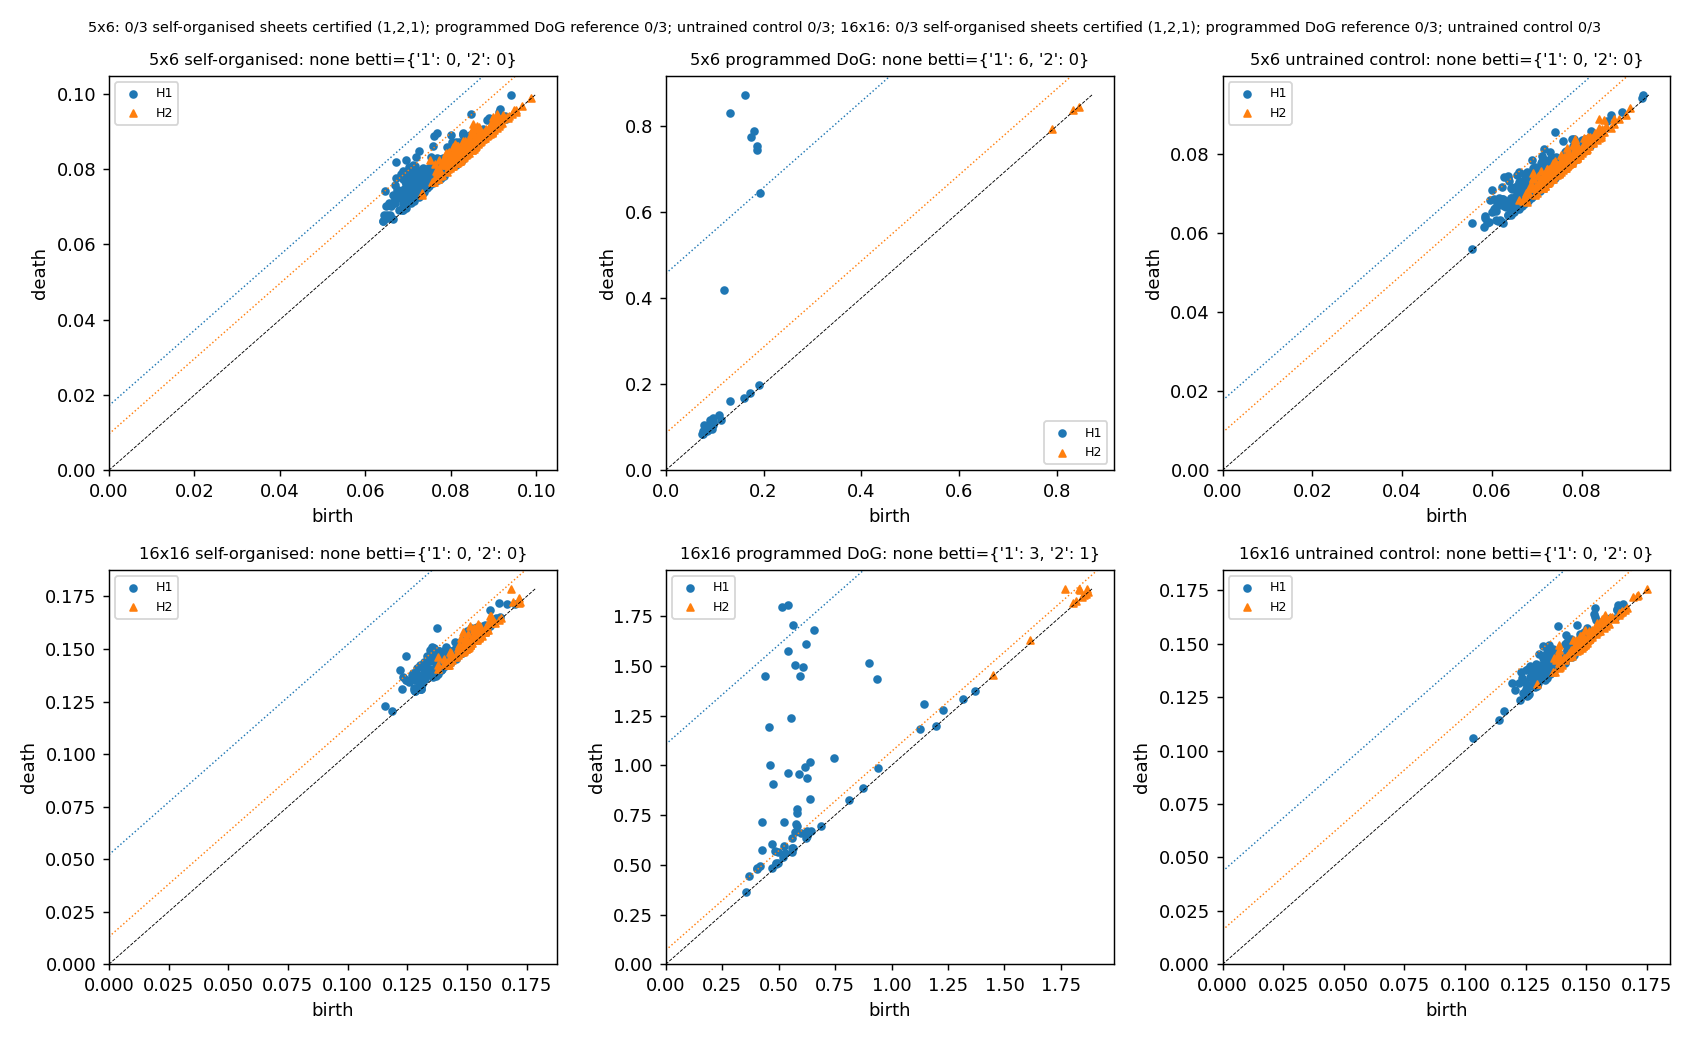
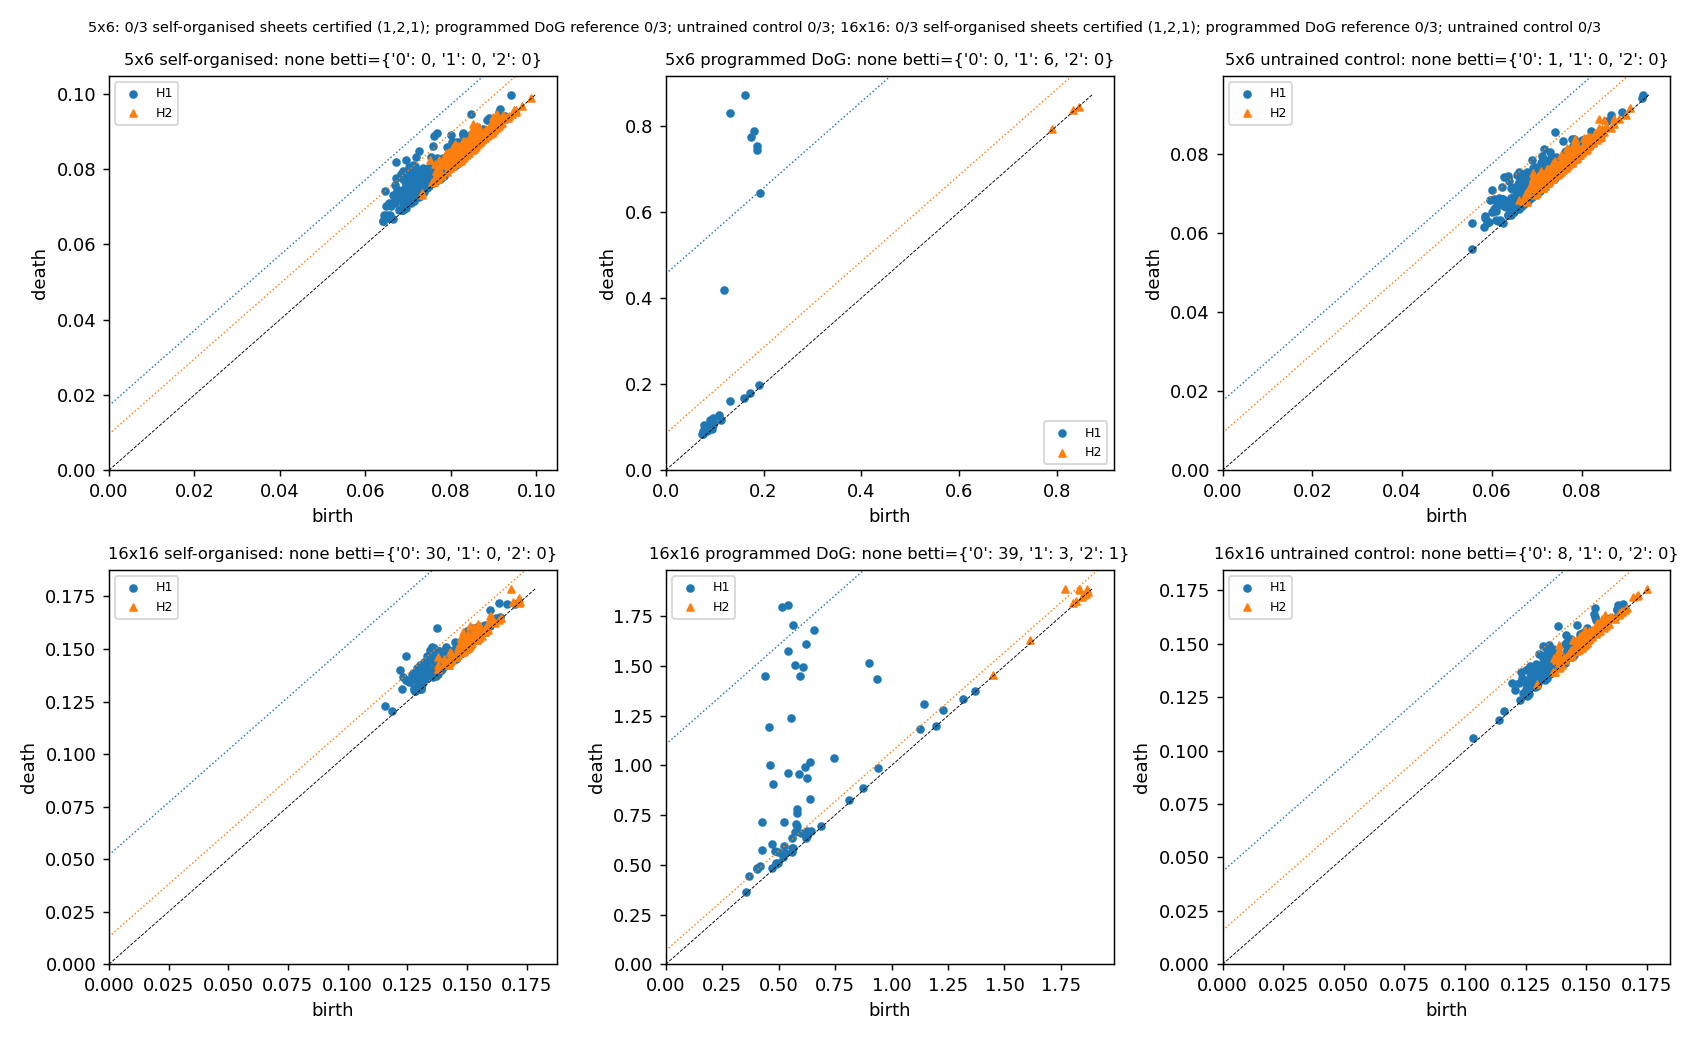
Align with the BPU technical document and patent disclosure: null threshold = 99th pct of longest null feature, beta0 fragmentation check, writes-per-device accounting, gate-scaled plasticity (kill switch), consolidation pair, E2 criteria; E4/E5/E2 rerun

diff --git a/bpusim/topology.py b/bpusim/topology.py
@@ -6,14 +6,17 @@ Pipeline
 2. Vietoris-Rips persistent homology (ripser; gudhi fallback) up to ``maxdim``.
 3. Null model: circularly shift each neuron's trace by an independent random
    offset (destroys the joint structure, keeps every marginal), recompute the
-   diagrams ``n_null`` times, pool the lifetimes per dimension and take the
-   99th percentile as the significance threshold.
-   A bar is significant if it exceeds that percentile *and* the largest
-   lifetime seen in any single null diagram (the pooled percentile alone is
-   dominated by the many short null bars and is too permissive).
-4. Certify a *ring* if exactly one H1 bar is significant (and no H2 bar is
-   when H2 was computed); a *torus* if H1 has exactly two and H2 exactly one
-   significant bar.
+   diagrams ``n_null`` times, and set the threshold per dimension at the
+   99th percentile of the *longest* null feature (the technical document's
+   definition; with few null draws this is the largest null lifetime).  The
+   99th percentile of the pooled null lifetimes is also recorded.
+4. Certify a *ring* if exactly one H1 bar is significant, no H2 bar is (when
+   H2 was computed) and no finite H0 bar is (an extra persistent H0 bar
+   means the cloud is fragmented into clusters, the pinning failure
+   signature); a *torus* if H1 has exactly two and H2 exactly one significant
+   bar and again no extra H0 bar.  Betti-0 is reported as the number of
+   significant *finite* H0 bars, i.e. components beyond the one that never
+   dies.
 """
 from __future__ import annotations
 
@@ -73,8 +76,7 @@ def diagrams(X: np.ndarray, maxdim: int = 1) -> list[np.ndarray]:
     out = []
     for d, D in enumerate(dg):
         D = np.asarray(D, float).reshape(-1, 2)
-        if d > 0:
-            D = D[np.isfinite(D[:, 1])]
+        D = D[np.isfinite(D[:, 1])]          # drop the one infinite H0 bar as well
         out.append(D)
     return out
 
@@ -110,35 +112,37 @@ def certify(X: np.ndarray, maxdim: int = 1, n_pca: int = 20, n_points: int = 300
     Xr = pca_reduce(X, n_pca)
     Xs = subsample(Xr, n_points, rng)
     dg = diagrams(Xs, maxdim)
-    null_L = {d: [] for d in range(1, maxdim + 1)}
-    null_max = {d: [] for d in range(1, maxdim + 1)}
+    dims = range(0, maxdim + 1)
+    null_L = {d: [] for d in dims}
+    null_max = {d: [] for d in dims}
     for _ in range(n_null):
         Xn = circular_shift_null(X, rng)
         Xn = subsample(pca_reduce(Xn, n_pca), n_points, rng)
         dgn = diagrams(Xn, maxdim)
-        for d in range(1, maxdim + 1):
+        for d in dims:
             L = lifetimes(dgn[d])
             null_L[d].extend(L.tolist())
             null_max[d].append(float(L.max()) if L.size else 0.0)
-    thr, betti, sig = {}, {}, {}
-    for d in range(1, maxdim + 1):
+    thr, thr_pool, betti, sig = {}, {}, {}, {}
+    for d in dims:
         pool = np.asarray(null_L[d]) if len(null_L[d]) >= min_null_bars else np.zeros(1)
-        thr_pool = float(np.percentile(pool, q)) if pool.size else 0.0
-        thr_max = float(np.max(null_max[d])) if null_max[d] else 0.0
-        thr[d] = max(thr_pool, thr_max)
+        thr_pool[d] = float(np.percentile(pool, q)) if pool.size else 0.0
+        thr[d] = float(np.percentile(null_max[d], q)) if null_max[d] else 0.0
         L = lifetimes(dg[d])
         sig[d] = np.sort(L[L > thr[d]])[::-1]
         betti[d] = int(sig[d].size)
-    is_ring = betti.get(1, 0) == 1 and (maxdim < 2 or betti.get(2, 0) == 0)
-    is_torus = maxdim >= 2 and betti.get(1, 0) == 2 and betti.get(2, 0) == 1
+    no_fragments = betti.get(0, 0) == 0
+    is_ring = no_fragments and betti.get(1, 0) == 1 and (maxdim < 2 or betti.get(2, 0) == 0)
+    is_torus = no_fragments and maxdim >= 2 and betti.get(1, 0) == 2 and betti.get(2, 0) == 1
     verdict = "torus" if is_torus else ("ring" if is_ring else "none")
     return {
         "verdict": verdict, "is_ring": bool(is_ring), "is_torus": bool(is_torus),
-        "betti": {int(k): v for k, v in betti.items()},
+        "betti": {int(k): v for k, v in betti.items()},            # betti[0] = extra (finite) components
         "threshold": {int(k): v for k, v in thr.items()},
+        "threshold_pooled": {int(k): v for k, v in thr_pool.items()},
         "null_max_lifetime": {int(k): float(np.max(v)) if v else 0.0 for k, v in null_max.items()},
         "significant_lifetimes": {int(k): v.tolist() for k, v in sig.items()},
-        "top_lifetimes": {int(d): np.sort(lifetimes(dg[d]))[::-1][:5].tolist() for d in range(1, maxdim + 1)},
+        "top_lifetimes": {int(d): np.sort(lifetimes(dg[d]))[::-1][:5].tolist() for d in dims},
         "diagrams": [D.tolist() for D in dg],
         "n_points": int(Xs.shape[0]), "n_null": int(n_null), "q": q,
     }

diff --git a/experiments/e4_ring_selforg.py b/experiments/e4_ring_selforg.py
@@ -78,9 +78,11 @@ def run_seed(seed: int, n_dev: int, n_checkpoints: int, n_null: int, cue_kind: s
     ang, prof0 = profile(W0, theta)
     _, prof1 = profile(sheet.tile.W, theta)
     return {
-        "seed": seed, "certified_ring": cert["is_ring"], "betti1": cert["betti"][1],
+        "seed": seed, "certified_ring": cert["is_ring"], "betti1": cert["betti"][1], "betti0_extra": cert["betti"][0],
+        "writes_per_device_per_s": sheet.tile.writes_per_device(seconds=n_dev * 1e-3),
+        "write_budget_per_device_per_s": 6e-3,
         "top_H1_lifetimes": cert["top_lifetimes"][1], "H1_threshold": cert["threshold"][1],
-        "control_certified_ring": cert_ctrl["is_ring"], "control_betti1": cert_ctrl["betti"][1],
+        "control_certified_ring": cert_ctrl["is_ring"], "control_betti1": cert_ctrl["betti"][1], "control_betti0_extra": cert_ctrl["betti"][0],
         "control_top_H1": cert_ctrl["top_lifetimes"][1], "control_H1_threshold": cert_ctrl["threshold"][1],
         "bump_persists_frac": float(persisted.mean()), "control_bump_persists_frac": float(persisted_ctrl.mean()),
         "ring_occupancy_bins_of_8": int(np.count_nonzero(occupancy)), "occupancy": occupancy.tolist(),
@@ -107,7 +109,7 @@ def main():
         with Timer(f"seed {seed}"):
             r = run_seed(seed, args.steps, args.checkpoints, args.null, args.cue)
         runs.append(r)
-        print(f"  seed {seed}: certified={r['certified_ring']} betti1={r['betti1']} top H1={np.round(r['top_H1_lifetimes'][:3], 3)} thr={r['H1_threshold']:.3f}"
+        print(f"  seed {seed}: certified={r['certified_ring']} betti1={r['betti1']} extra betti0={r['betti0_extra']} writes/dev/s={r['writes_per_device_per_s']:.3g} top H1={np.round(r['top_H1_lifetimes'][:3], 3)} thr={r['H1_threshold']:.3f}"
               f" | control certified={r['control_certified_ring']} betti1={r['control_betti1']} | persists {r['bump_persists_frac']:.2f} (ctrl {r['control_bump_persists_frac']:.2f})"
               f" | occupancy {r['ring_occupancy_bins_of_8']}/8 bins, drift {r['median_drift_from_cue_rad']:.2f} rad"
               f" | synapses {r['n_active_initial']}->{r['n_active_final']}")

diff --git a/experiments/e2_grow_vs_rigl.py b/experiments/e2_grow_vs_rigl.py
@@ -196,10 +196,18 @@ def main():
     out = {"seeds": seeds, "epochs": epochs, "density": args.density, "update_every": args.update_every,
            "drop_frac": args.drop_frac, "noise_sigma": args.noise, "smoke": args.smoke, "runs": runs, "summary": summary}
     gap = summary["local"]["mean"] - summary["rigl"]["mean"]
-    out["verdict"] = {"local_minus_rigl": gap, "local_minus_random": summary["local"]["mean"] - summary["random"]["mean"],
-                      "statement": "local grow rule %s RigL (%.4f vs %.4f test accuracy, random %.4f) at %.0f%% density" % (
-                          "matches" if abs(gap) <= 2 * max(summary["local"]["sem"], summary["rigl"]["sem"], 1e-4) else ("beats" if gap > 0 else "trails"),
-                          summary["local"]["mean"], summary["rigl"]["mean"], summary["random"]["mean"], 100 * args.density)}
+    gap_rand = summary["local"]["mean"] - summary["random"]["mean"]
+    # criteria from the technical document: success = within a few percent of RigL at equal budget;
+    # refuted = clearly worse than random regrowth
+    within_few_pct = abs(gap) <= 0.03
+    worse_than_random = gap_rand < -2 * max(summary["local"]["sem"], summary["random"]["sem"], 1e-4) and gap_rand < -0.005
+    out["verdict"] = {"local_minus_rigl": gap, "local_minus_random": gap_rand,
+                      "within_few_percent_of_rigl": within_few_pct, "clearly_worse_than_random": worse_than_random,
+                      "statement": "local %.4f, RigL %.4f, random %.4f test accuracy at %.0f%% density: %s" % (
+                          summary["local"]["mean"], summary["rigl"]["mean"], summary["random"]["mean"], 100 * args.density,
+                          ("REFUTED (clearly worse than random regrowth)" if worse_than_random else
+                           ("success criterion met: within a few percent of RigL (gap %+.4f), not worse than random (%+.4f)" % (gap, gap_rand)
+                            if within_few_pct else "trails RigL by %.4f, not worse than random" % -gap)))}
     print("E2 verdict:", out["verdict"]["statement"])
     save_results("e2", out, args.out)
     if not args.no_fig:

diff --git a/bpusim/tile.py b/bpusim/tile.py
@@ -42,6 +42,9 @@ class Tile:
         self.A = np.ones(shape, bool) if mask is None else np.asarray(mask, bool).copy()
         self.G_scale = self.p.G_range
         self.n_writes = 0
+        # eta(V_G): the memtransistor gate scales plasticity without touching the stored state;
+        # 0 is the hardware kill switch (claim 6), 1 is nominal
+        self.plasticity_gain = 1.0
 
     # ----------------------------------------------------------------- views
     @property
@@ -89,7 +92,7 @@ class Tile:
         so a caller accumulating sub-pulse changes can keep the residual.
         ``self.n_writes`` counts synapses that received at least one pulse.
         """
-        dW = np.asarray(dW, float) * self.A
+        dW = np.asarray(dW, float) * self.A * self.plasticity_gain
         W_before = self.W
         if not np.any(dW):
             return np.zeros(self.shape)
@@ -117,6 +120,17 @@ class Tile:
         self.gm.pulse(n_m)
         self.n_writes += int(((n_p != 0) | (n_m != 0)).sum())
         return self.W - W_before
+
+    @property
+    def n_pulses(self) -> int:
+        return self.gp.n_pulses + self.gm.n_pulses
+
+    def writes_per_device(self, seconds: float | None = None) -> float:
+        """Average write events per device (per second if ``seconds`` is given).  The
+        technical document's endurance budget is ~6e-3 writes per device per second
+        (1e6 cycles over 5 years)."""
+        w = self.n_writes / (2.0 * self.A.size)
+        return w / seconds if seconds else w
 
     def program(self, W_target: np.ndarray, tol: float = 0.02, max_iter: int = 400) -> int:
         """Write-verify the whole tile to W_target in [-1, 1] (positive part on G+, negative on G-)."""

diff --git a/tests/test_plasticity.py b/tests/test_plasticity.py
@@ -1,7 +1,7 @@
 import numpy as np
 
 from bpusim.plasticity import (STDP, EligibilityTrace, stdp_window, three_factor, homeostatic_scaling,
-                               oja_update, normalize_columns, SurpriseGate)
+                               oja_update, normalize_columns, SurpriseGate, ConsolidationPair)
 
 
 def test_stdp_online_matches_window():
@@ -55,3 +55,17 @@ def test_oja_converges_to_unit_norm():
     assert abs(W[0, 0]) > 0.9  # aligned with the principal component
     Wn = normalize_columns(rng.standard_normal((5, 3)), 2.0)
     np.testing.assert_allclose(np.linalg.norm(Wn, axis=0), 2.0)
+
+
+def test_consolidation_pair_forgets_fast_and_keeps_replayed():
+    c = ConsolidationPair((1,), tau_f=1.0, tau_c=1.0, dt=1e-3)
+    c.step(1.0 / 1e-3)                 # one unit of learning into the fast device
+    assert abs(c.g_f[0] - 1.0) < 1e-6 and c.g_s[0] == 0.0
+    for _ in range(3000):              # no replay: the fast trace decays, nothing consolidates
+        c.step(0.0, replay=False)
+    assert c.g_f[0] < 0.06 and c.g_s[0] == 0.0
+    c2 = ConsolidationPair((1,), tau_f=1e9, tau_c=1.0, dt=1e-3)
+    c2.step(1.0 / 1e-3)
+    for _ in range(3000):              # replay: the slow device copies the fast one
+        c2.step(0.0, replay=True)
+    assert c2.g_s[0] > 0.9

diff --git a/bpusim/plasticity.py b/bpusim/plasticity.py
@@ -125,3 +125,30 @@ def normalize_columns(W, target_norm=1.0, eps=1e-12):
     W = np.asarray(W, float)
     n = np.linalg.norm(W, axis=0, keepdims=True)
     return W * (target_norm / np.maximum(n, eps))
+
+
+class ConsolidationPair:
+    """Fast volatile device g_f + slow nonvolatile device g_s per synapse (L3 consolidation).
+
+        G_eff = g_f + g_s,   tau_f dg_f/dt = -g_f + tau_f * delta_learn,
+        tau_c dg_s/dt = (g_f - g_s) * 1[replay]
+
+    Learning writes to the volatile device, which forgets with tau_f; during a
+    replay phase the slow device copies the fast one with tau_c (Benna and
+    Fusi, 2016 two-variable cascade).
+    """
+
+    def __init__(self, shape, tau_f=10.0, tau_c=100.0, dt=1e-3):
+        self.g_f = np.zeros(shape)
+        self.g_s = np.zeros(shape)
+        self.tau_f, self.tau_c, self.dt = tau_f, tau_c, dt
+
+    @property
+    def G_eff(self):
+        return self.g_f + self.g_s
+
+    def step(self, delta_learn=0.0, replay: bool = False):
+        self.g_f += self.dt * (-self.g_f / self.tau_f + np.asarray(delta_learn))
+        if replay:
+            self.g_s += self.dt * (self.g_f - self.g_s) / self.tau_c
+        return self.G_eff

diff --git a/tests/test_topology.py b/tests/test_topology.py
@@ -14,7 +14,17 @@ def _ring_cloud(rng, T=1500, N=32):
 def test_certify_ring():
     rng = np.random.default_rng(0)
     c = certify(_ring_cloud(rng), maxdim=1, n_points=250, n_null=10, rng=rng)
-    assert c["verdict"] == "ring" and c["betti"][1] == 1
+    assert c["verdict"] == "ring" and c["betti"][1] == 1 and c["betti"][0] == 0
+
+
+def test_fragmented_cloud_is_not_a_ring():
+    """Four tight clusters on a circle: H0 reports extra components, so no ring certificate."""
+    rng = np.random.default_rng(5)
+    theta = 2 * np.pi * np.arange(32) / 32
+    a = np.repeat(2 * np.pi * np.arange(4) / 4, 300) + 0.02 * rng.standard_normal(1200)
+    X = np.maximum(np.cos(a[:, None] - theta[None, :]) - 0.3, 0) + 0.01 * rng.standard_normal((1200, 32))
+    c = certify(X, maxdim=1, n_points=200, n_null=8, rng=rng)
+    assert c["betti"][0] >= 1 and not c["is_ring"]
 
 
 def test_certify_torus():

diff --git a/tests/test_tile.py b/tests/test_tile.py
@@ -57,3 +57,15 @@ def test_dead_synapse_reads_zero_once_pruned(rng):
     assert np.all(t.W[t.gp.dead] <= 1e-9)
     GrowthRule(t).prune()
     assert np.all(t.W[t.dead] == 0.0) and not np.any(t.A & t.dead)
+
+
+def test_plasticity_gain_kill_switch_and_write_accounting(rng):
+    t = Tile(6, 6, rng, DeviceParams(sigma_d2d=0, sigma_c2c=0, sigma_r=0))
+    t.plasticity_gain = 0.0                      # V_G = 0: plasticity frozen in hardware
+    t.update(np.full((6, 6), 0.3))
+    assert np.all(t.W == 0.0) and t.n_writes == 0
+    t.plasticity_gain = 1.0
+    t.update(np.full((6, 6), 0.3))
+    assert t.W.min() > 0.25 and t.n_writes == 36
+    assert abs(t.writes_per_device() - 0.5) < 1e-12   # 36 writes over 72 devices
+    assert abs(t.writes_per_device(seconds=10.0) - 0.05) < 1e-12

diff --git a/README.md b/README.md
@@ -55,10 +55,10 @@ confirmed.
 | Exp | What was measured | Outcome (3 seeds unless stated) | Verdict |
 |---|---|---|---|
 | E1 | GPT-2 124M perplexity through noisy tiles, with noise-aware fine-tuning | **not run here** (GPU host); `--smoke` pipeline check passes on CPU | pending |
-| E2 | MNIST MLP at 10 % density: local grow rule vs RigL vs random regrowth, 5 epochs | test acc local 0.914 +- 0.003, RigL 0.923 +- 0.001, random 0.914 +- 0.002 | local rule = random, trails RigL by 0.9 pt |
+| E2 | MNIST MLP at 10 % density: local grow rule vs RigL vs random regrowth, 5 epochs | test acc local 0.914 +- 0.003, RigL 0.923 +- 0.001, random 0.914 +- 0.002 | **success criterion met** (within a few percent of RigL, not worse than random); no advantage over random regrowth |
 | E3 | 32-ring on a 32x32 tile, mismatch 0.05, path-integration RMSE vs dynamic noise, **10 seeds** | RMSE 0.38 (sigma 0) -> 0.33 (sigma 0.05, 7/10 seeds better) -> 0.41 (sigma 0.2); no-mismatch control 0.05 -> 0.34 monotonic | **not U-shaped** at p = 0.34; shallow dip inside the error bars |
-| E4 | ring self-organised from a sparse random tile (STDP + growth + normalisation), beta1 = 1 vs circular-shift null | 2/3 seeds certified (H1 bars 0.26, 0.20 vs null 0.19, 0.16; third seed 0.10 vs 0.13); 0/3 untrained controls; released bumps cover 6/8 ring bins | **partial**: ring forms in most seeds, kernel still translation-variant |
-| E5 | grid self-organisation on 5x6 and 16x16 sheets, torus (1,2,1) vs null | 0/3 + 0/3 self-organised; **programmed DoG reference also 0/3 + 0/3** (5x6: 1-6 H1 bars, 0-1 H2; 16x16: 0-3 H1, 0-1 H2); 0/3 controls | **not certified**; the certifier does not pass even the programmed module at these sizes |
+| E4 | ring self-organised from a sparse random tile (STDP + growth + normalisation), beta1 = 1 vs circular-shift null | 2/3 seeds certified (H1 bars 0.26, 0.20 vs null 0.18, 0.16; third seed 0.10 vs 0.12), no extra β0 components in any seed; 0/3 untrained controls; released bumps cover 6/8 ring bins; 0.11 writes per device per second during development vs the 6e-3 endurance budget | **partial**: ring forms in most seeds, kernel still translation-variant; development is 18x over the write budget |
+| E5 | grid self-organisation on 5x6 and 16x16 sheets, torus (1,2,1) vs null | 0/3 + 0/3 self-organised; **programmed DoG reference also 0/3 + 0/3** (5x6: 1-6 H1 bars, 0-1 H2; 16x16: 0-3 H1, 0-1 H2 and 12-39 extra β0 components, i.e. the lattice hops between discrete states instead of sliding); 0/3 controls | **not certified**; the certifier does not pass even the programmed module at these sizes |
 | E6 | 32 +-1 pairs on 32x32 tiles, recall from 50 %-erased cues, sigma in {0 .. 0.2} | pseudo-inverse scaffold: >= 90 % exact recall only up to K = 4-8; delta-rule scaffold the same; **attention: 32/32 at every sigma** (0.98-1.00) | device noise is not the limit, the erasure is; attention wins by a wide margin |
 | E7 | 8 generic modules, NAV + RECALL, grown module graph vs fixed layered graph at equal synapses | Q(grown) = 0.12 +- 0.01, rises from 0 as 12 routes grow; all modules carry > 0.1 bit about the task; nav accuracy grown 0.15 vs fixed 0.39, recall bits 0.70 vs 0.76; compositional transfer gap +0.01 (p = 1) | **null**: the graph grows and becomes weakly modular but learns the tasks worse than the fixed graph and composes no better |
 
@@ -94,8 +94,18 @@ confirmed.
   they should (toward the output modules) and Q rises to ~0.12, but the
   local learner is too weak: the grown graph solves the tasks worse than a
   fixed layered graph with the same synapse budget, and neither composes.
-* **E2**: the local grow rule is indistinguishable from random regrowth and
-  0.9 points below RigL after 5 epochs.  **E1** is ready for a GPU host.
+* **E2** meets the technical document's success criterion (within a few
+  percent of RigL, not worse than random) but shows no advantage over
+  random regrowth.  **E1** is ready for a GPU host.
+* **Write budget.** Self-organisation in E4 costs 0.11 writes per device per
+  second, 18x the endurance budget of 6e-3 from the technical document; a
+  developmental phase of this intensity has to be short or sparser.
+
+The certifier follows the technical document: threshold at the 99th
+percentile of the longest null feature, and a ring/torus certificate also
+requires no extra persistent β0 component (fragmentation by pinning).  The
+alignment of the code with the *Technical Document* and the *Patent-Style
+Disclosure* is itemised at the end of `DECISIONS.md`.
 
 Timings on this laptop (20-core CPU): E3 23 s, E4 48 s, E5 ~10 min
 (16x16 tiles), E6 109 s, E7 100 s; `scripts/run_all.sh` ~15 min with 3

diff --git a/DECISIONS.md b/DECISIONS.md
@@ -262,3 +262,44 @@ honest partial result, not a certified continuous attractor in every seed.
   `--full` uses 10 seeds.  Timings are in the README (~15 min for 3 seeds;
   E5's 16x16 sheets dominate, so they use 12k development steps and 100
   kick positions instead of 20k and 160).
+
+## Alignment with the two BPU documents (2026-10-16)
+
+Checked against *BPU Technical Document — Architecture, Mathematics, and
+Contribution* and *BPU Patent-Style Disclosure* (both in `~/Downloads`).
+The equations match the brief and the code.  Changes made to match the
+documents where they are more specific than the brief:
+
+* **Certification threshold** is now the technical document's definition:
+  the 99th percentile of the *longest* null feature per dimension (the
+  pooled 99th percentile is still recorded as `threshold_pooled`).
+* **Betti-0 failure signature.**  The document's ring signature is
+  (1, 1, 0) and its failure mode is "extra beta0 bars (fragmented by
+  pinning)".  `certify` now counts significant finite H0 bars as
+  `betti[0]` and a ring or torus certificate requires zero of them.  This
+  is stricter than the brief's "exactly one H1 bar" and is applied to E4/E5.
+* **Writes per device against the cycle budget** (Section 11 of the
+  technical document, budget ~6e-3 writes per device per second):
+  `Tile.writes_per_device(seconds)`; E4 reports it next to the budget.
+* **Gate-scaled plasticity / kill switch** (claims 5-6): `Tile.plasticity_gain`
+  multiplies every write; 0 freezes plasticity.
+* **Fast/slow consolidation pair** (Section 5.1, claim 16):
+  `plasticity.ConsolidationPair` implements `G_eff = g_f + g_s` with
+  volatile decay and replay-gated transfer.  Not used by any experiment.
+* **E2 verdict wording** follows the document's criteria: success = within
+  a few percent of RigL at equal budget; refuted = clearly worse than random
+  regrowth.
+* **Attention beta.**  The document uses `beta = 1/sqrt(d)` for the
+  transformer identity; E6 uses `beta = 0.5` (`1/sqrt(32) = 0.18` would be
+  the literal value).  Kept at 0.5 because the point of E6 is recall
+  capacity under noise, not transformer equivalence; the constant is one
+  line (`BETA`) in `e6_memory.py`.
+* **Hardware note.**  BPU-1 assigns tile B to a 5x6 grid module.  In this
+  simulator a 5x6 sheet with the DoG kernels tried does not form a clean 2D
+  attractor (the bump hops between columns and the programmed module does
+  not certify as a torus under the document's own null); the E5 result
+  should inform that tile's design before tape-out.
+* **Not implemented** (no experiment needs them): SV-gated inhibition of
+  structural change (claim 15; SV is computed, the gate is a one-line
+  policy on top), spawn-on-error of whole modules in E7 (claim 3; `growth.spawn`
+  exists at tile level), the control-plane/security layer (Section 9).
